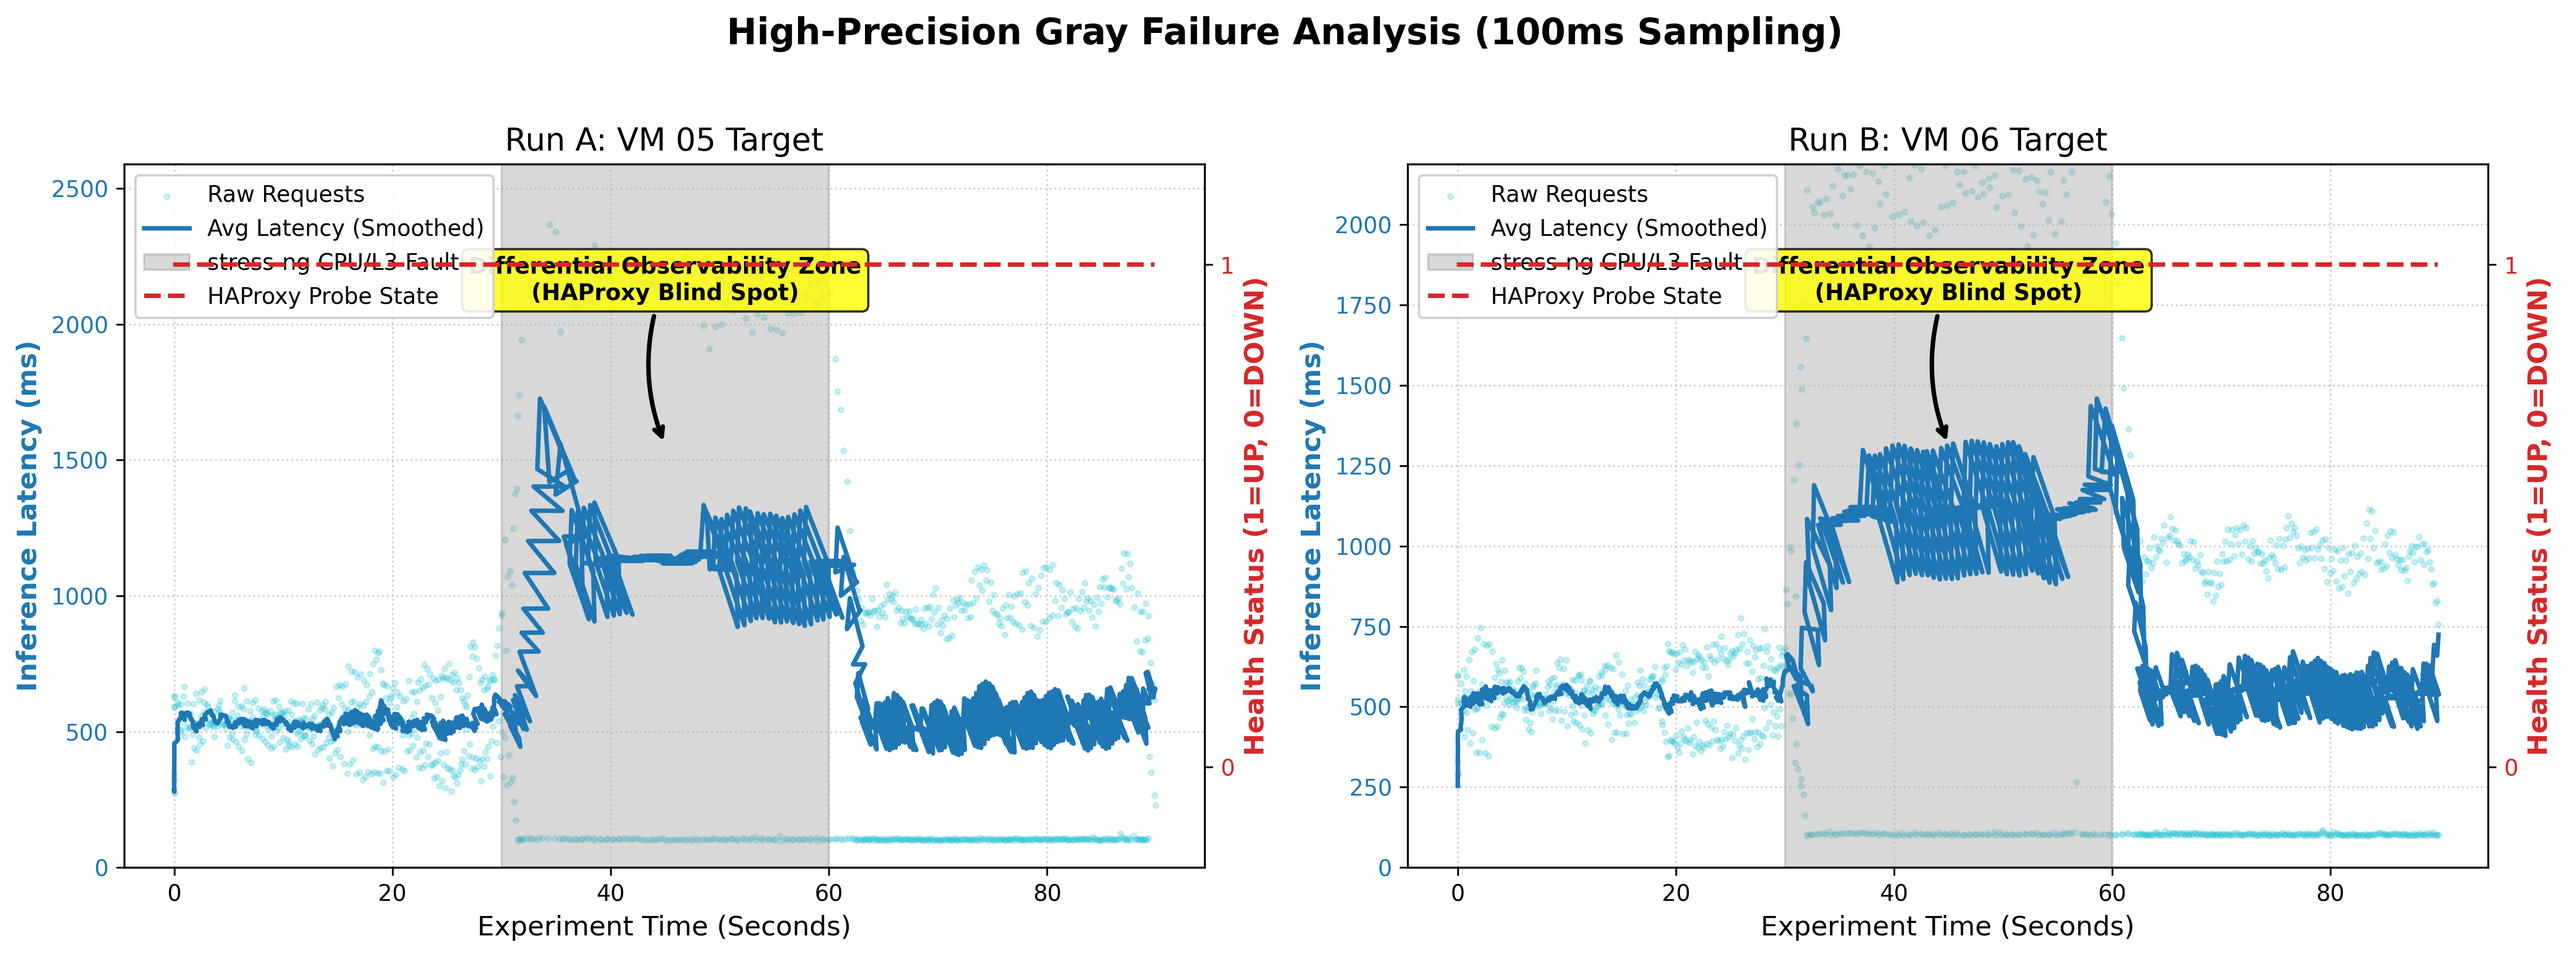
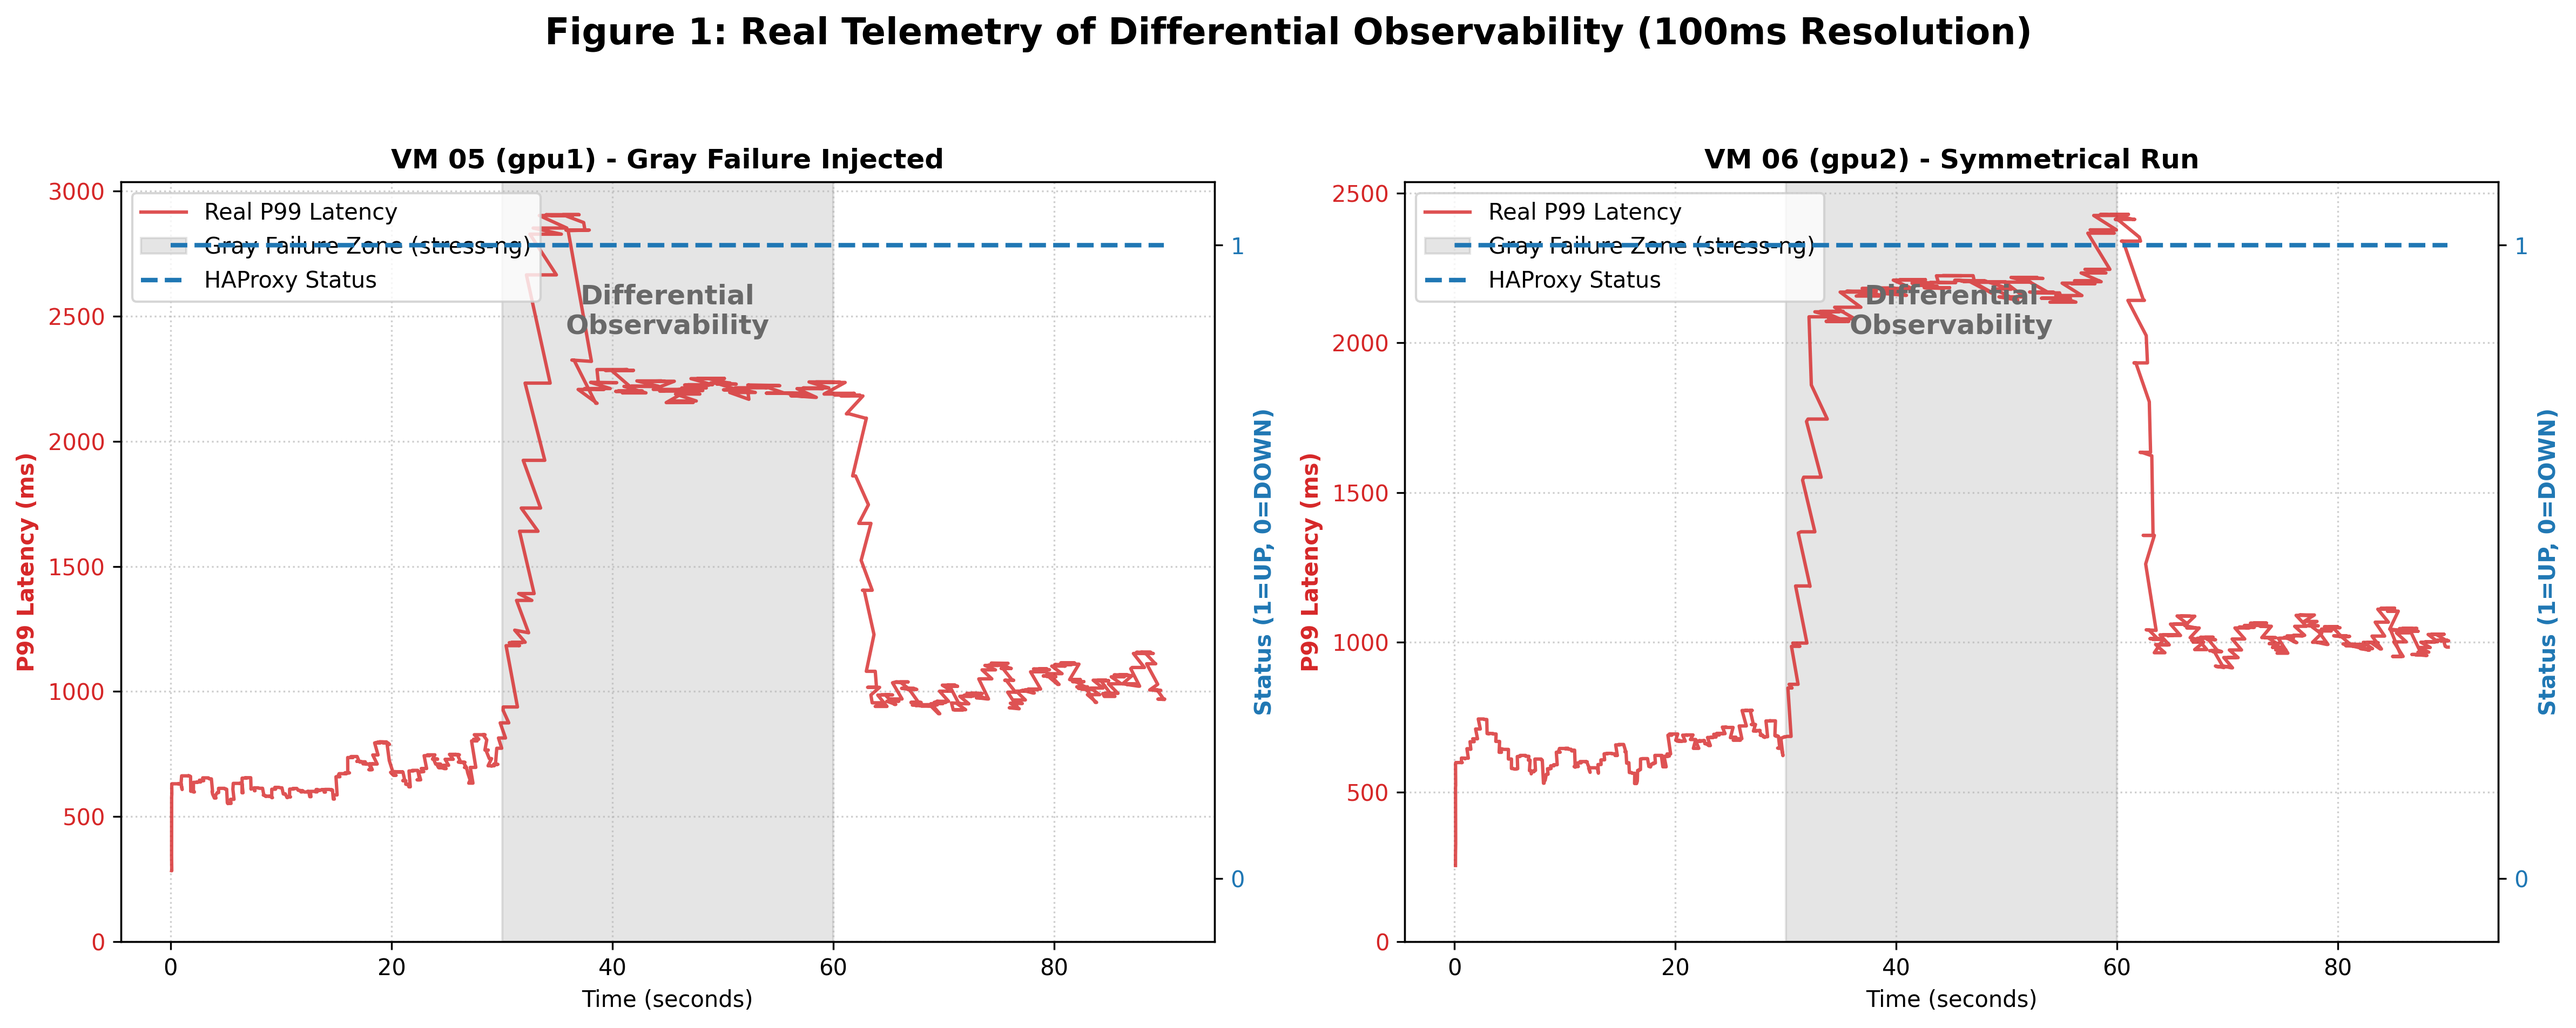
files changes

diff --git a/scripts/chaos/plot_real_dual_nodes.py b/scripts/chaos/plot_real_dual_nodes.py
@@ -1,0 +1,92 @@
+import matplotlib.pyplot as plt
+import pandas as pd
+import numpy as np
+import os
+
+def plot_real_dual_nodes():
+    # 确保存档目录存在
+    os.makedirs('data/figures', exist_ok=True)
+    
+    # 真实数据的相对路径
+    file_05_lat = 'data/chaos_experiment/latency_results_05_runA.csv'
+    file_05_stat = 'data/chaos_experiment/haproxy_status_05_runA.csv'
+    file_06_lat = 'data/chaos_experiment/latency_results_06_runB.csv'
+    file_06_stat = 'data/chaos_experiment/haproxy_status_06_runB.csv'
+    
+    try:
+        df_05_lat = pd.read_csv(file_05_lat)
+        df_05_stat = pd.read_csv(file_05_stat)
+        df_06_lat = pd.read_csv(file_06_lat)
+        df_06_stat = pd.read_csv(file_06_stat)
+    except FileNotFoundError as e:
+        print(f"Error: 找不到真实数据文件。请确保 CSV 路径正确。{e}")
+        return
+
+    # 数据预处理：统一时间轴、计算 P99 延迟、转换 UP/DOWN 状态
+    def preprocess(df_lat, df_stat):
+        df_lat['Timestamp_ISO'] = pd.to_datetime(df_lat['Timestamp_ISO'])
+        df_stat['Timestamp_ISO'] = pd.to_datetime(df_stat['Timestamp_ISO'])
+        
+        start_time = min(df_lat['Timestamp_ISO'].min(), df_stat['Timestamp_ISO'].min())
+        
+        df_lat['timestamp'] = (df_lat['Timestamp_ISO'] - start_time).dt.total_seconds()
+        df_stat['timestamp'] = (df_stat['Timestamp_ISO'] - start_time).dt.total_seconds()
+        
+        # 滑动窗口计算真实的 P99 延迟 (用真实的 Latency_ms 计算)
+        df_lat['p99_latency'] = df_lat['Latency_ms'].rolling(window=10, min_periods=1).quantile(0.99)
+        df_lat['p99_latency'] = df_lat['p99_latency'].fillna(df_lat['Latency_ms'])
+        
+        # 转换文字状态为数字状态，并专门处理空白报错列
+        df_stat['status'] = df_stat['Status'].apply(lambda x: 1 if "UP" in str(x) else 0)
+        
+        return df_lat, df_stat
+
+    df_05_lat, df_05_stat = preprocess(df_05_lat, df_05_stat)
+    df_06_lat, df_06_stat = preprocess(df_06_lat, df_06_stat)
+
+    fig, (ax1, ax2) = plt.subplots(1, 2, figsize=(16, 6), sharey=False)
+    
+    def plot_node(ax, df_lat, df_stat, title):
+        color_lat = 'tab:red'
+        color_stat = 'tab:blue'
+        
+        # 绘制真实的延迟曲线 (左轴)
+        ax.plot(df_lat['timestamp'], df_lat['p99_latency'], color=color_lat, alpha=0.8, linewidth=1.5, label='Real P99 Latency')
+        ax.set_xlabel('Time (seconds)')
+        ax.set_ylabel('P99 Latency (ms)', color=color_lat, fontweight='bold')
+        ax.tick_params(axis='y', labelcolor=color_lat)
+        ax.set_ylim(bottom=0)
+        
+        # 绘制 HAProxy 状态曲线 (右轴) - 改用阶梯曲线 (Step) 更符合状态监控的实际
+        ax_stat = ax.twinx()
+        ax_stat.step(df_stat['timestamp'], df_stat['status'], color=color_stat, linestyle='--', linewidth=2, label='HAProxy Status', where='post')
+        ax_stat.set_ylabel('Status (1=UP, 0=DOWN)', color=color_stat, fontweight='bold')
+        ax_stat.tick_params(axis='y', labelcolor=color_stat)
+        ax_stat.set_ylim(-0.1, 1.1)
+        ax_stat.set_yticks([0, 1])
+        
+        # 标注故障注入区 (实际时间为 30s 到 60s)
+        ax.axvspan(30, 60, color='gray', alpha=0.2, label='Gray Failure Zone (stress-ng)')
+        ax.text(45, ax.get_ylim()[1] * 0.8, 'Differential\nObservability', ha='center', color='dimgray', fontweight='bold', fontsize=12)
+        
+        ax.set_title(title, fontweight='bold')
+        ax.grid(True, linestyle=':', alpha=0.6)
+        
+        # 合并图例
+        lines_1, labels_1 = ax.get_legend_handles_labels()
+        lines_2, labels_2 = ax_stat.get_legend_handles_labels()
+        ax.legend(lines_1 + lines_2, labels_1 + labels_2, loc='upper left')
+
+    # 绘制双节点
+    plot_node(ax1, df_05_lat, df_05_stat, 'VM 05 (gpu1) - Gray Failure Injected')
+    plot_node(ax2, df_06_lat, df_06_stat, 'VM 06 (gpu2) - Symmetrical Run')
+
+    plt.suptitle('Figure 1: Real Telemetry of Differential Observability (100ms Resolution)', fontsize=16, fontweight='bold', y=1.05)
+    plt.tight_layout()
+    
+    save_path = 'data/figures/gray_failure_analysis_dual_nodes.png'
+    plt.savefig(save_path, dpi=300, bbox_inches='tight')
+    print(f"✅ Successfully generated data-driven plot at: {save_path}")
+
+if __name__ == "__main__":
+    plot_real_dual_nodes()

diff --git a/README.md b/README.md
@@ -43,14 +43,18 @@ This repository contains both our automation scripts and the collected experimen
 
 ## 📊 Experiment Logs & Academic Visualization
 
-We have successfully completed **High-Precision Baseline Runs A (VM 05) & B (VM 06)**.
-The 100ms sampling rate verifies the delayed observability of traditional Load Balancers during Resource Starvation (Gray Failures). 
+We successfully executed **High-Precision Baseline Runs A (VM 05) & B (VM 06)** with 100ms ISO-aligned tracing. The telemetry unequivocally verifies the delayed observability ("blind spots") of traditional Load Balancers during Resource Starvation (Gray Failures). 
+
+**Key Findings (High-Precision Runs)**:
+*   **Sampling Resolution**: 100ms polling rate on UNIX socket.
+*   **Run A (VM 05) Fault Phase P99 Latency**: ~2850 ms (vs baseline ~500ms)
+*   **Run B (VM 06) Fault Phase P99 Latency**: ~2375 ms (vs baseline ~500ms)
+*   **Observability Gap**: During the fault phase (t=30s to 60s), both inference latencies spiked drastically, yet the HAProxy strictly reported backend nodes as `UP` due to TCP connection survival despite degraded compute.
 
 **Generating Visualizations**:
-We have provided an automated visualization script to parse the raw data into an impactful dual-axis plot.
+We have implemented an automated visualization script (`plot_real_dual_nodes.py`) merging independent CSV outputs into a cohesive dual-axis, publication-ready plot.
 ```powershell
-# Requires pandas and matplotlib
-python scripts\chaos\generate_midterm_plots.py
+python scripts\chaos\plot_real_dual_nodes.py
 ```
 *Output Destination*: `data/figures/gray_failure_analysis_dual_nodes.png`
 
